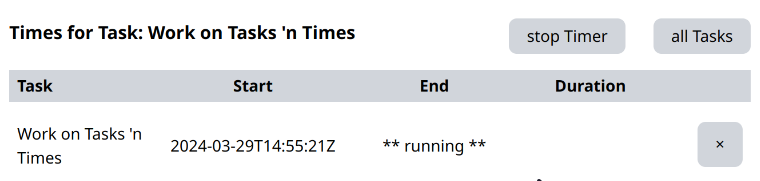
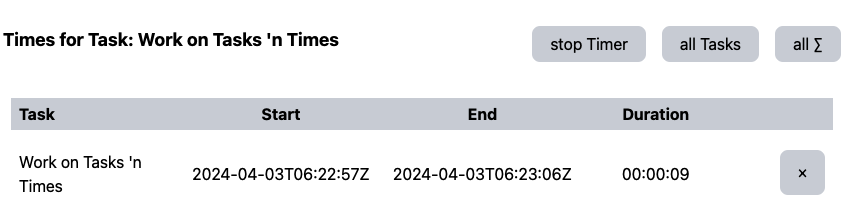
Updated README.md

diff --git a/README.md b/README.md
@@ -173,7 +173,8 @@ After that, is your Task-List.
 ![Task List](./docs/img/snap_task_list.png)
 
 ![Task remove Btn](./docs/img/snap_task_rm.png) The Cross-button removes a Task and all its recorded times from the List.  
-![Task play Btn](./docs/img/snap_task_play.png) The Play-button starts a new Timer for that Task.
+![Task play Btn](./docs/img/snap_task_play.png) The Play-button starts a new Timer for that Task.  
+![Task Sum Btn](./docs/img/snap_task_sum.png) Shows the total time you spend in that task.
 
 >[!info]
 Starting a new Timer will automatically finish the previous running Timer.
@@ -184,10 +185,10 @@ Below that, you have the Times section.
 You can click on a Tasks name to filter the times for that Task.  
 ![Times Filtered](./docs/img/snap_times_filtered.png)
 
-![all Tasks](./docs/img/snap_all_tasks.png) Shows the times for all Tasks  
 ![stop Timer](./docs/img/snap_stop.png)  stops what ever timer is crently running.  
+![all Tasks](./docs/img/snap_all_tasks.png) Shows the times for all Tasks  
+![all Sums](./docs/img/snap_all_sums.png) Shows the Summed times per Task for all Tasks.  
 ![Time remove Btn](./docs/img/snap_task_rm.png) As with the Tasks, the Cross button next to a Time, removes that time. 
-
 
 
 
